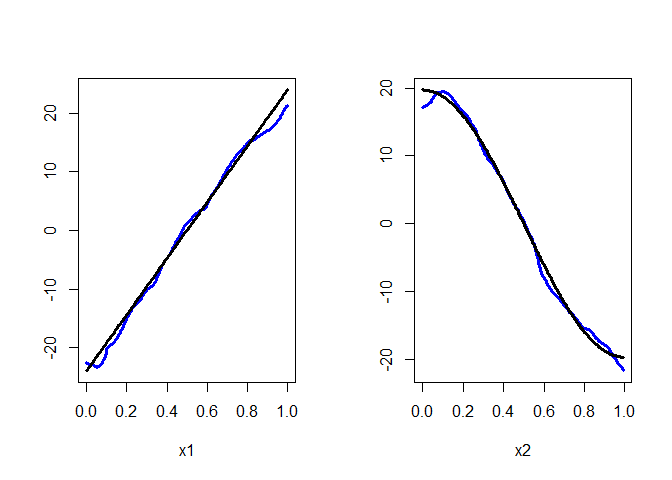
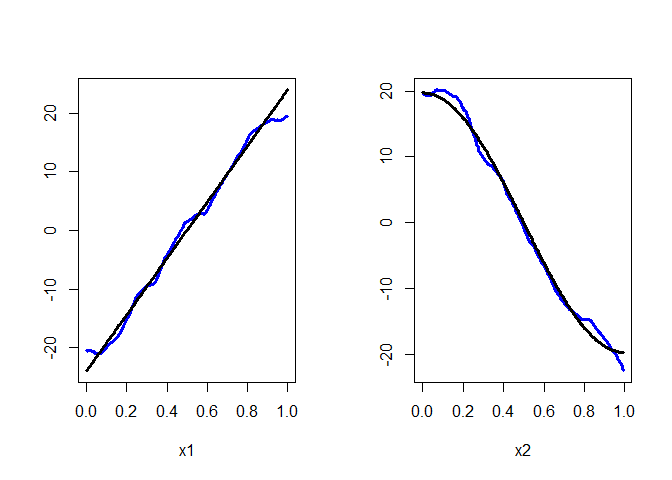
Contamination setting

diff --git a/README.md b/README.md
@@ -1,7 +1,7 @@
 Robust MARGinal INTegration procedures
 --------------------------------------
 
-This repository contains an <code>R</code> package with the classical and robust marginal integration procedures for estimating the additive components in an additive model, implementing the proposal of Graciela Boente and Alejandra Martinez in
+This repository contains an <code>R</code> package with the classical and robust marginal integration procedures for estimating the additive components in an additive model, implementing the proposal of Graciela Boente and Alejandra Martínez in
 
 > Boente G. and Martinez A. (2017). Marginal integration M-estimators for additive models. TEST, 26, 231-260.
 
@@ -12,15 +12,16 @@ library(devtools)
 install_github("alemermartinez/rmargint")
 ```
 
-The following example corresponds to one of the 2-dimensional simulated samples considered in the paper.
+The following example corresponds to a 2-dimensional simulated samples with 5% of contaminated responses. For more examples and contamination setting, see Boente and Martínez (2017).
 
 Let begin by defining the additive functions and then generating the simulated sample.
 
 ``` r
 library(rmargint)
 
-function.g1 <- function(x1) 24*(x1-1/2)^2-2
-function.g2 <- function(x2) 2*pi*sin(pi*x2)-4
+function.g1 <- function(x1) 24*(x1-1/2)^2-(6/5)
+function.g2 <- function(x2) 2*pi*sin(pi*x2)-(48/(pi^2))
+
 
 set.seed(140)
 n <- 500
@@ -28,8 +29,12 @@ x1 <- runif(n)
 x2 <- runif(n)
 X <- cbind(x1, x2)
 eps <- rnorm(n,0,sd=0.15)
+prop.cont <- 0.05
+ou <- rbinom(n, size=1, prob=prop.cont) 
+eps.ou <- eps
+eps.ou[ ou == 1 ] <- rnorm(sum(ou),mean=15, sd=0.1)
 regresion <- function.g1(x1) + function.g2(x2)
-y <- regresion + eps
+y <- regresion + eps.ou
 ```
 
 As it is explained in the paper, the bandwidths used for the direction of interest and for the nuisance direction might be different. For estimating the additive functions, bandwidths for the direction of interest and for the nuisance direction were considered equal to 0.1.
@@ -42,7 +47,8 @@ Besides, for this estimation procedure, a different measure for approximating th
 
 ``` r
 set.seed(9090)
-Qmeasure <- matrix(runif(500*2), 500, 2)
+nQ <- 200
+Qmeasure <- matrix(rbeta(nQ*2,2,2), nQ, 2)
 ```
 
 Now we will use the robust marginal integration procedure to fit an additive model using the Huber loss function (with default tuning constant c=1.345), a linear fit (degree=1) for the estimation procedure at each additive component, a kernel of order 2 (orderkernel=2) and the type of estimation procedure which, in this case, focus the attention on each alpha additive component and not on all of them at the same time (type='alpha'). In addition, a specific point will be predicted.
@@ -59,14 +65,14 @@ The prediction and true values of the additive functions are:
 robust.fit$prediction
 ```
 
-    ##           [,1]     [,2]
-    ## [1,] -1.009927 2.153329
+    ##            [,1]     [,2]
+    ## [1,] -0.2039209 1.237501
 
 ``` r
 c(function.g1(point[1]), function.g2(point[2]))
 ```
 
-    ## [1] -1.040000  1.975664
+    ## [1] -0.240000  1.112248
 
 The following figures plot the partial residuals, the estimated curve (in blue) and the true function (in black) for each additive function:
 
@@ -108,7 +114,7 @@ robust.fit2$prediction.derivate
 ```
 
     ##          [,1]      [,2]
-    ## [1,] 10.42077 -8.042503
+    ## [1,] 9.550217 -6.595888
 
 ``` r
 c(function.g1.prime(point[1]), function.g2.prime(point[2]))
